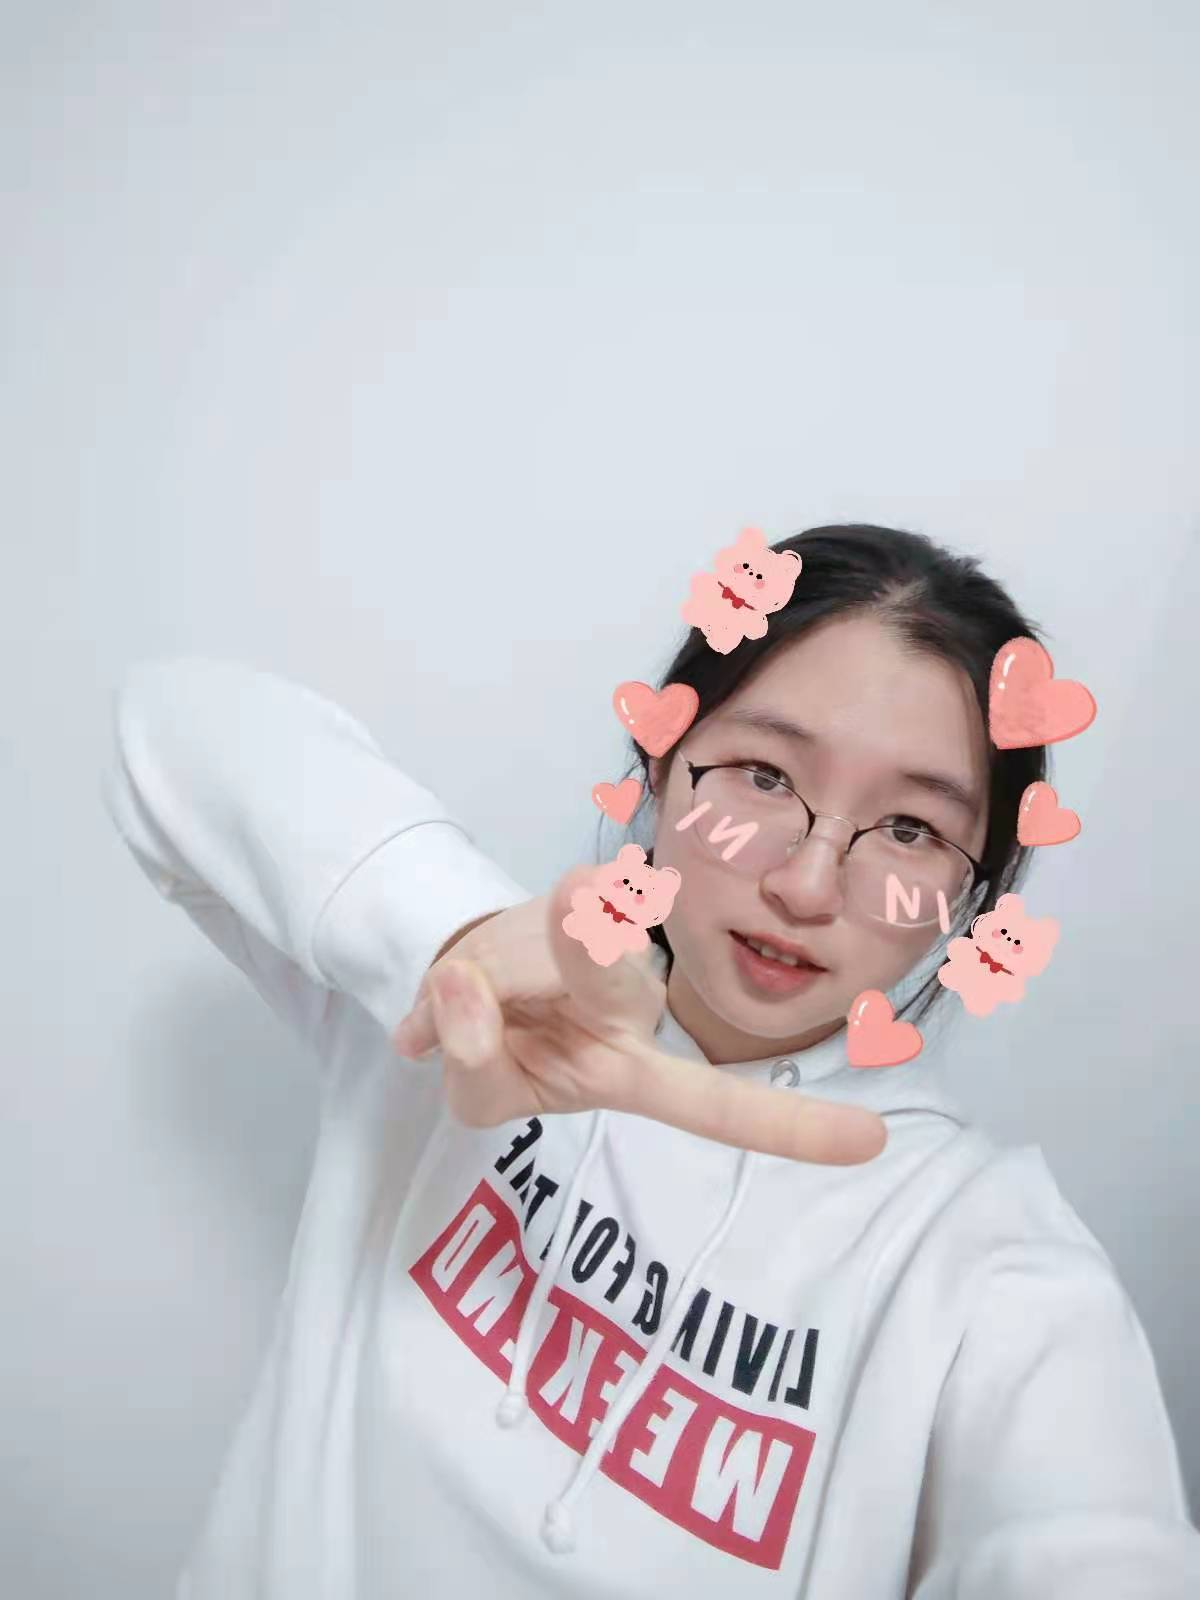
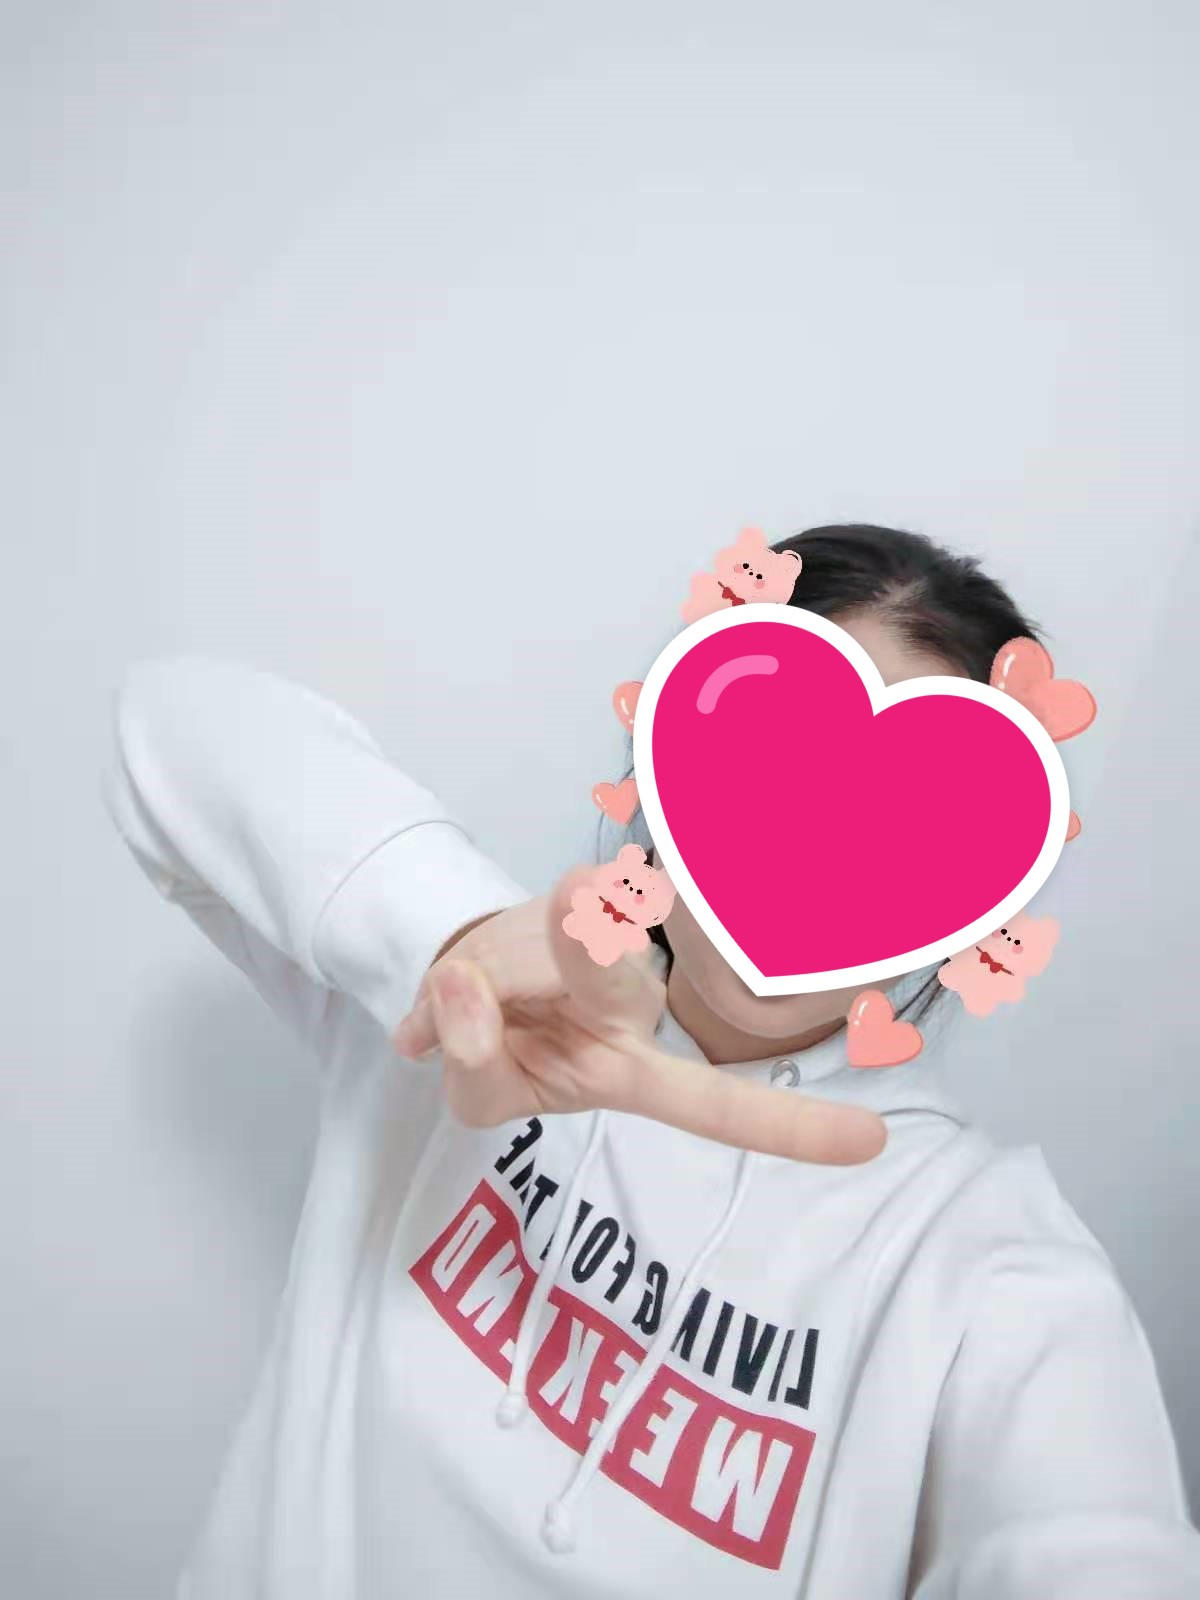
Site updated: 2022-05-19 17:03:12

Changed region(s): [[0.5242, 0.375, 0.8942, 0.625]]

diff --git a/2022/04/05/a46989d825cc/index.html b/2022/04/05/a46989d825cc/index.html
@@ -319,7 +319,7 @@
 </blockquote>
 <p>抛弃掉这些闲杂念头，眼前的事还是挺多，家附近各种小区被封，成都更是闹得乌泱泱的，疫情让我在家宅了80多天，也让我们分别了80多天，实际上还是非常有影响的，只能说，合理设置期望吧。这些日子也是很正常的有一些争执，无论是思维差异或是行为习惯，终不可能100%，但是并不需要或者并不存在💯的关系，要做的应该是动态规划，和不断地修正改善。<br />
 放一张美照嘿嘿😍😍😍<br />
-<img src="/img/lp.jpg" srcset="/img/loading.gif" lazyload alt="如果人多了我就删了" /></p>
+<img src="/img/lp.jpg" srcset="/img/loading.gif" lazyload alt="感觉看的人多了我做个贴纸" /></p>
 <p>近期补完牙了，真是难受，希望大家爱护身体，祝身心健康(好像有点怪怪的，不过问题不大😌)</p>
 <p>清明几天几乎投身于强化学习的小问题了，课内倒是一直放置，后面还有紧跟着的物理考试，校赛，各种乱七八糟的作业，还有很多想学的和TODO的，希望能顺利完成。</p>
 
